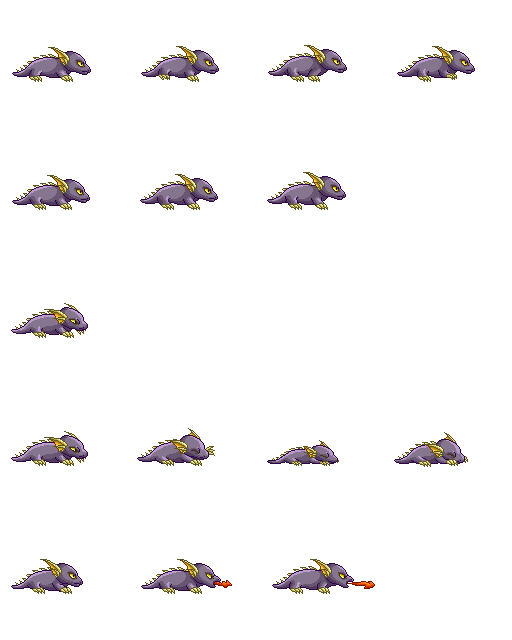
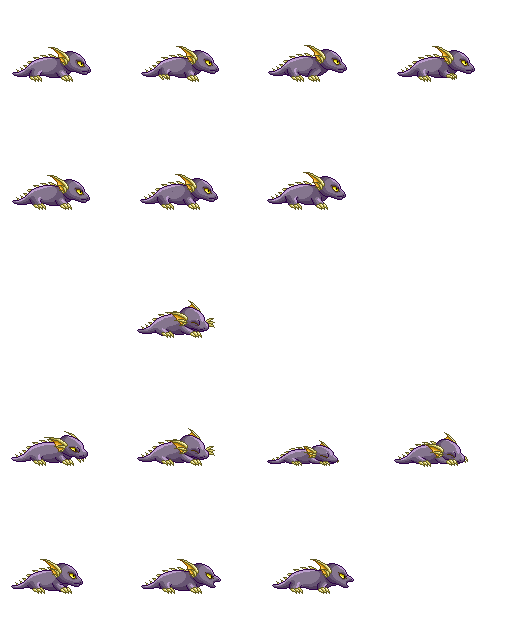
敵

diff --git a/Project1/Object/Attack/AttackMng.cpp b/Project1/Object/Attack/AttackMng.cpp
@@ -18,6 +18,7 @@
 #include "yellow/Flash.h"
 
 #include "../EnemyAttack/TrackingBall.h"
+#include "../EnemyAttack/SpearAttack.h"
 
 AttackMng* AttackMng::sInstance = nullptr;
 
@@ -268,6 +269,22 @@ void AttackMng::MakeTrackingBall(Vector2 ePos, Vector2 pPos, TIME time, int stag
 	else
 	{
 		_tmpObj.emplace_back(new TrackingBall(ePos, pPos, time, stage, target));
+
+	//	return _tmpObj.back()->getAnmEfk();
+	}
+}
+
+void AttackMng::MakeSpearAttack(Vector2 pos, DIR dir, TIME time, int stage, OBJ_TYPE target)
+{
+	if (_canAddObj)
+	{
+		_attackObj.emplace_back(new SpearAttack(pos, dir, time, stage, target));
+
+	//	return _attackObj.back()->getAnmEfk();
+	}
+	else
+	{
+		_tmpObj.emplace_back(new SpearAttack(pos, dir, time, stage, target));
 
 	//	return _tmpObj.back()->getAnmEfk();
 	}

diff --git a/Project1/Object/Enemy/s_dragon.cpp b/Project1/Object/Enemy/s_dragon.cpp
@@ -79,7 +79,7 @@ void s_dragon::Init(void)
 
 	for (int i = 0; i < 3; i++)
 	{
-		data.emplace_back(lpImageMng.getImage("s_dragonR")[16 + i], 20 + i * 20);
+		data.emplace_back(lpImageMng.getImage("s_dragonR")[16 + i], 8 + i * 3);
 	}
 	data.emplace_back(-1, 0);
 	setAnm({ OBJ_STATE::ATTACK,DIR::RIGHT }, data);
@@ -113,7 +113,7 @@ void s_dragon::Init(void)
 
 	for (int i = 0; i < 3; i++)
 	{
-		data.emplace_back(lpImageMng.getImage("s_dragonL")[16 + i], 20 + i * 20);
+		data.emplace_back(lpImageMng.getImage("s_dragonL")[16 + i], 8 + i * 3);
 	}
 	data.emplace_back(-1, 0);
 	setAnm({ OBJ_STATE::ATTACK,DIR::LEFT }, data);

diff --git a/Project1/Object/EnemyAttack/TrackingBall.cpp b/Project1/Object/EnemyAttack/TrackingBall.cpp
@@ -106,11 +106,9 @@ bool TrackingBall::Init(void)
 
 	std::vector<atkData> attack;
 	attack.reserve(31);
-	for (int i = 0; i < 30; i++)
-	{
-		attack.emplace_back(atkData(true, OBJ_TYPE::ATTACK, { 0, -6 }, { 20, 14 }, 30, 10, _target));
-	}
-	attack.emplace_back(atkData(false, OBJ_TYPE::ATTACK, { 0, 0 }, { 0, 0 }, 0, -1, _target));
+
+	attack.emplace_back(atkData(true, OBJ_TYPE::ATTACK, { 0, -6 }, { 20, 14 }, 30, 10, _target));
+	//attack.emplace_back(atkData(false, OBJ_TYPE::ATTACK, { 0, 0 }, { 0, 0 }, 0, -1, _target));
 
 	setAttack("fireball", attack);
 

diff --git a/Project1/Object/EnemyAttack/SpearAttack.h b/Project1/Object/EnemyAttack/SpearAttack.h
@@ -1,0 +1,19 @@
+#pragma once
+#include "../Object.h"
+class SpearAttack :
+	public Object
+{
+public:
+	SpearAttack(Vector2& ePos, DIR dir, TIME time, int stage, OBJ_TYPE target);
+	~SpearAttack();
+
+	void Update(void)override;
+	void Draw(void) override;
+	void IfHitAttack(std::shared_ptr<Object> target) override;
+
+private:
+	int _farstY;
+	OBJ_TYPE _target;
+	bool Init(void);
+};
+
